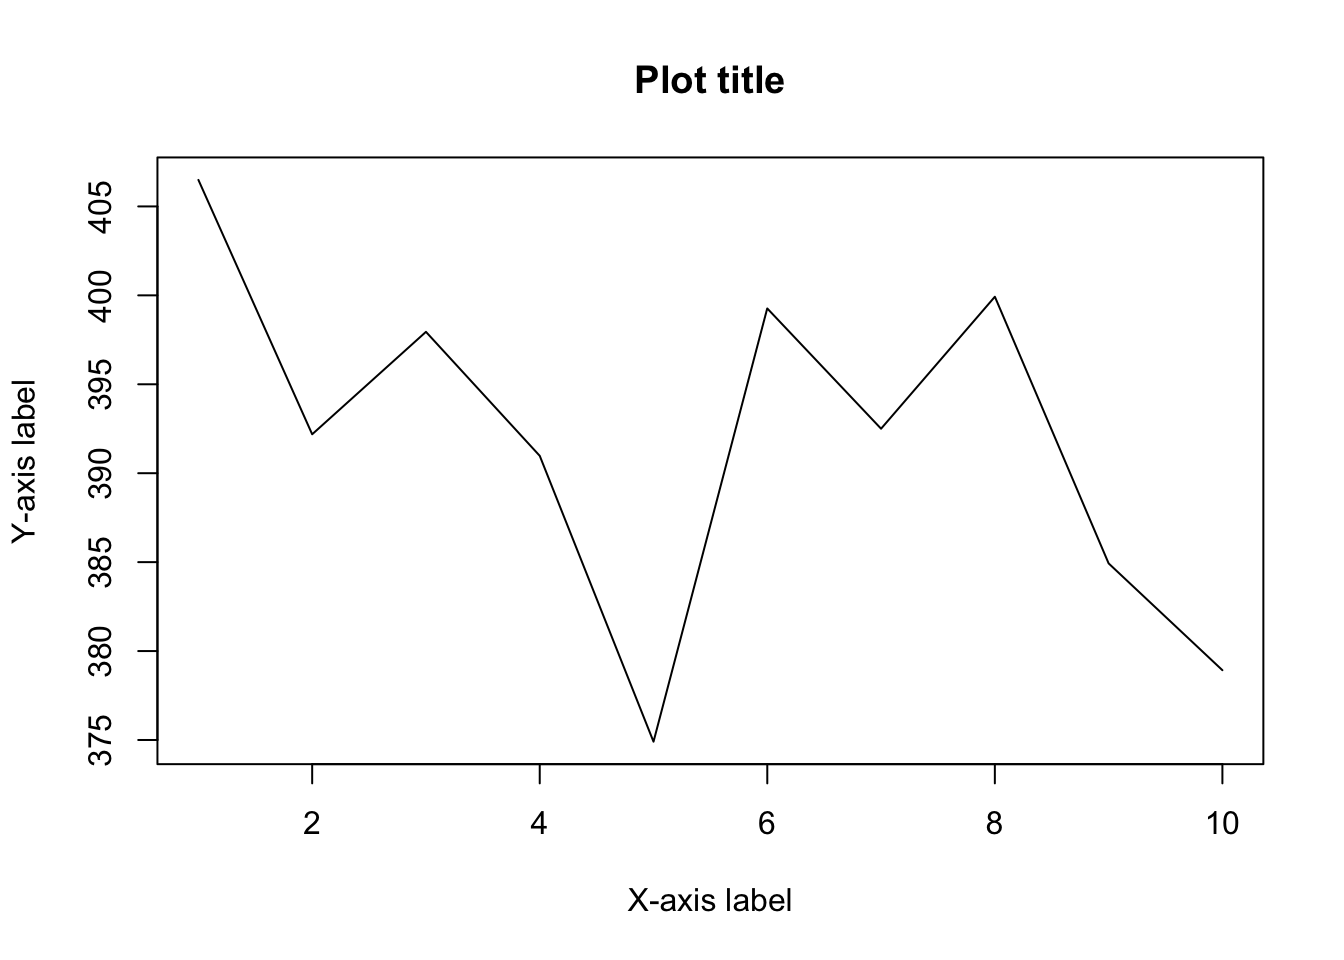
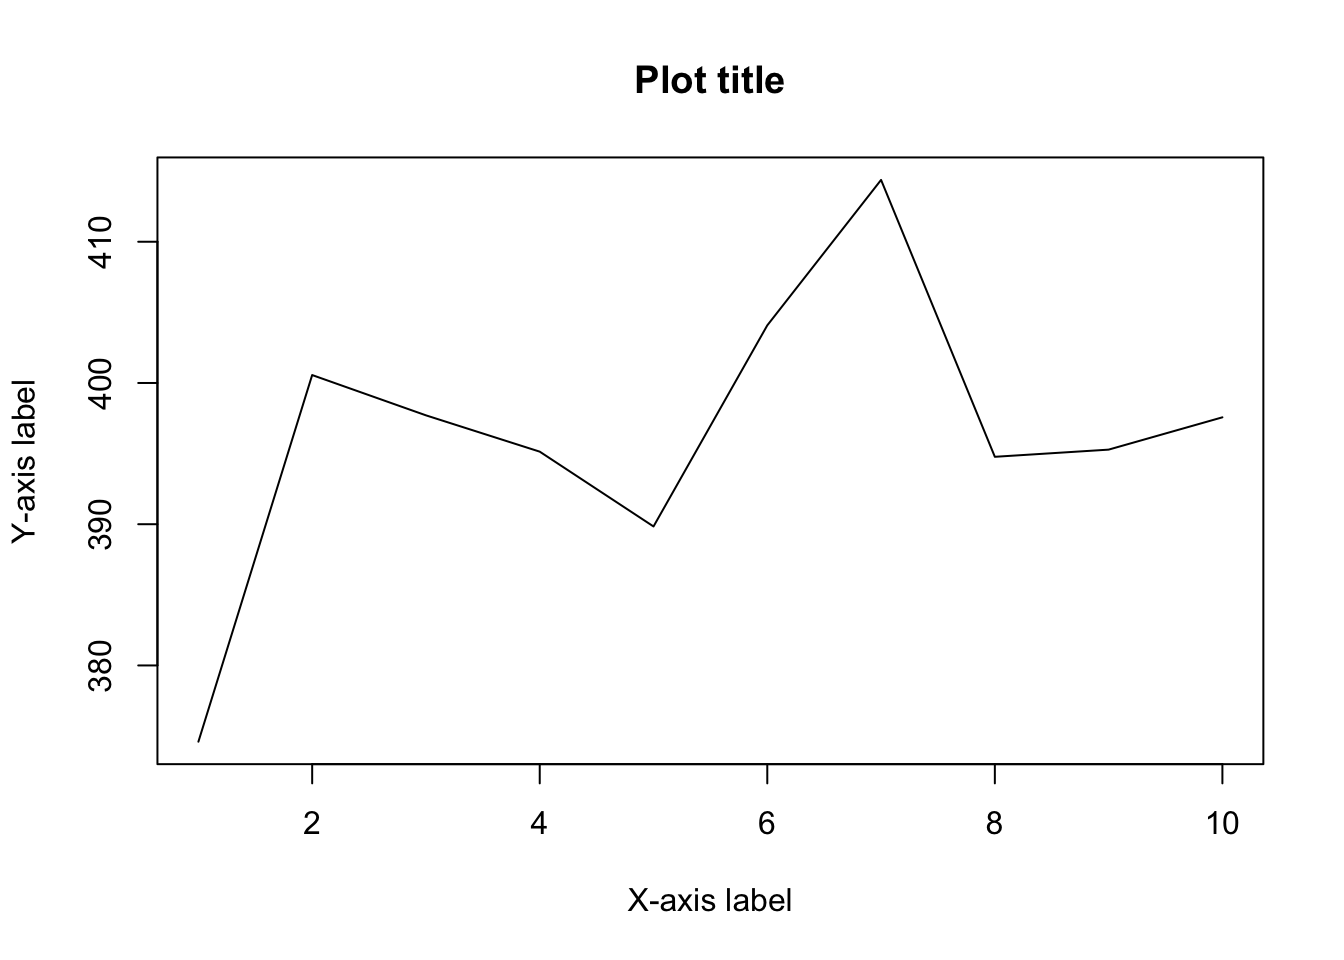
edit post

diff --git a/public/blog/how-to-install-r-and-rstudio/index.html b/public/blog/how-to-install-r-and-rstudio/index.html
@@ -14,14 +14,14 @@
     <meta property="og:type" content="article" />
     <meta property="og:url" content="/blog/how-to-install-r-and-rstudio/" />
     <meta property="og:title" content="How to install R and RStudio?" />
-    <meta property="og:image" content="/image/image.png" />
+    <meta property="og:image" content="//blog/how-to-install-r-and-rstudio_files/0_vZhfBRnPyxoGbiQj.jpeg" />
     <meta property="og:description" content="A blog on statistics and R aiming at helping academics and professionals working with data to grasp important concepts in statistics and to apply them in R." />
 
     <meta name="twitter:card" content="summary_large_image" />
     
     <meta name="twitter:title" content="How to install R and RStudio?" />
     <meta name="twitter:description" content="A blog on statistics and R aiming at helping academics and professionals working with data to grasp important concepts in statistics and to apply them in R." />
-    <meta name="twitter:image" content="/image/image.png" />
+    <meta name="twitter:image" content="//blog/how-to-install-r-and-rstudio_files/0_vZhfBRnPyxoGbiQj.jpeg" />
 
     <link rel="canonical" href="/blog/how-to-install-r-and-rstudio/">
 
@@ -327,10 +327,10 @@ my_mat2</code></pre>
 <pre class="r"><code>my_vec &lt;- rnorm(10, mean = 400, sd = 10)
 # Display only the first 5 values:
 head(my_vec, 5)</code></pre>
-<pre><code>## [1] 406.4906 392.1886 397.9478 390.9771 374.9044</code></pre>
+<pre><code>## [1] 374.6015 400.5622 397.7090 395.1376 389.8408</code></pre>
 <pre class="r"><code># Display only the last 5 values:
 tail(my_vec, 5)</code></pre>
-<pre><code>## [1] 399.2627 392.5018 399.9215 384.9294 378.9238</code></pre>
+<pre><code>## [1] 404.0806 414.3782 394.7730 395.2813 397.5688</code></pre>
 <p>You will have different values than mines due to the fact that they are randomly generated. If you want to make sure to have always the same random values, use <code>set.seed()</code> (with any numeric inside the brackets). For instance, with the following code, you should have the exact same values, no matter where and when you run it:</p>
 <pre class="r"><code>set.seed(42)
 rnorm(3, mean = 10, sd = 2)</code></pre>

diff --git a/content/blog/how-to-install-r-and-rstudio.html b/content/blog/how-to-install-r-and-rstudio.html
@@ -6,7 +6,7 @@ slug: how-to-install-r-and-rstudio
 categories: []
 tags:
   - R
-meta_img: image/image.png
+meta_img: /blog/how-to-install-r-and-rstudio_files/0_vZhfBRnPyxoGbiQj.jpeg
 # description: Description for the page.
 output:
   blogdown::html_page:
@@ -190,10 +190,10 @@ my_mat2</code></pre>
 <pre class="r"><code>my_vec &lt;- rnorm(10, mean = 400, sd = 10)
 # Display only the first 5 values:
 head(my_vec, 5)</code></pre>
-<pre><code>## [1] 406.4906 392.1886 397.9478 390.9771 374.9044</code></pre>
+<pre><code>## [1] 374.6015 400.5622 397.7090 395.1376 389.8408</code></pre>
 <pre class="r"><code># Display only the last 5 values:
 tail(my_vec, 5)</code></pre>
-<pre><code>## [1] 399.2627 392.5018 399.9215 384.9294 378.9238</code></pre>
+<pre><code>## [1] 404.0806 414.3782 394.7730 395.2813 397.5688</code></pre>
 <p>You will have different values than mines due to the fact that they are randomly generated. If you want to make sure to have always the same random values, use <code>set.seed()</code> (with any numeric inside the brackets). For instance, with the following code, you should have the exact same values, no matter where and when you run it:</p>
 <pre class="r"><code>set.seed(42)
 rnorm(3, mean = 10, sd = 2)</code></pre>
